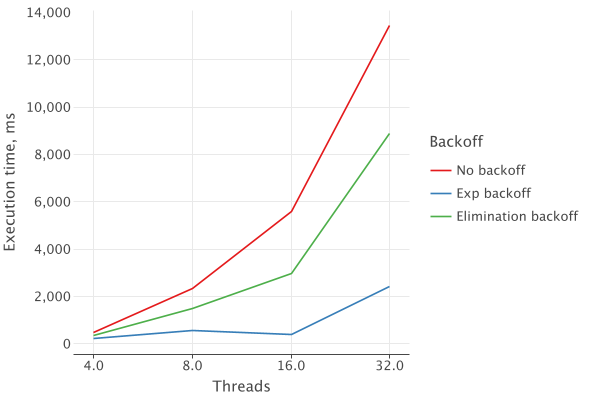
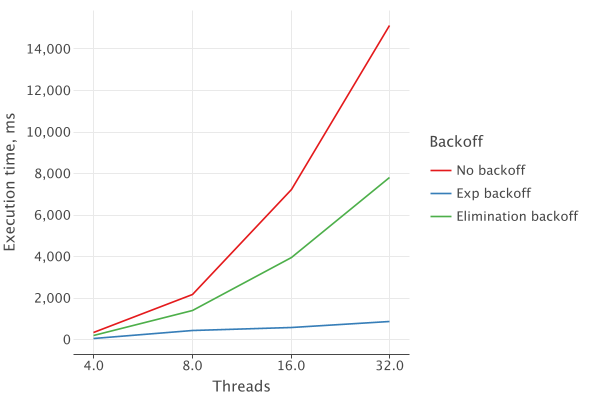
feat: take average of 5 runs

diff --git a/task1/benchmark/src/main/kotlin/benchmark/Main.kt b/task1/benchmark/src/main/kotlin/benchmark/Main.kt
@@ -44,6 +44,8 @@ fun bench(stack: Stack<Int>, threadsCount: Int, opsCount: Int, pushProbability: 
 
 
 fun main() {
+    val runs = 5
+
     val threadsCount = listOf(4, 8, 16, 32)
     val pushProbability = 0.5
     val initElementsCount = 2_000_000
@@ -71,18 +73,26 @@ fun main() {
     val expStackTimes = mutableListOf<Int>()
     val elimStackTimes = mutableListOf<Int>()
 
-    threadsCount.forEach {
+    threadsCount.forEach { threads ->
         lockfreeTimes.addLast(
-            bench(setupLockfreeStack(), it, opsCount, pushProbability)
-                .toInt(DurationUnit.MILLISECONDS)
+            List(runs) {
+                bench(setupLockfreeStack(), threads, opsCount, pushProbability)
+                    .toInt(DurationUnit.MILLISECONDS)
+            }.average().toInt()
         )
+
         expStackTimes.addLast(
-            bench(setupExpStack(), it, opsCount, pushProbability)
-                .toInt(DurationUnit.MILLISECONDS)
+            List(runs) {
+                bench(setupExpStack(), threads, opsCount, pushProbability)
+                    .toInt(DurationUnit.MILLISECONDS)
+            }.average().toInt()
         )
+
         elimStackTimes.addLast(
-            bench(setupElimStack(it / 2), it, opsCount, pushProbability)
-                .toInt(DurationUnit.MILLISECONDS)
+            List(runs) {
+                bench(setupElimStack(threads / 2), threads, opsCount, pushProbability)
+                    .toInt(DurationUnit.MILLISECONDS)
+            }.average().toInt()
         )
     }
 

diff --git a/task1/README.md b/task1/README.md
@@ -20,7 +20,7 @@ running `macOS Sonoma 14.5, Azul Zulu Java 21.0.3, Kotlin 1.9.23`.
 To assess performance the following testing was performed:
 - Stack was initially filled with `2 000 000` elements.
 - Multiple threads were started and each performed `1 000 000` stack operations.
-- Total time to perform all operations by all threads was measured.
+- Total time to perform all operations by all threads was measured. The average of 5 runs was taken.
 
 ### 100% push
 
